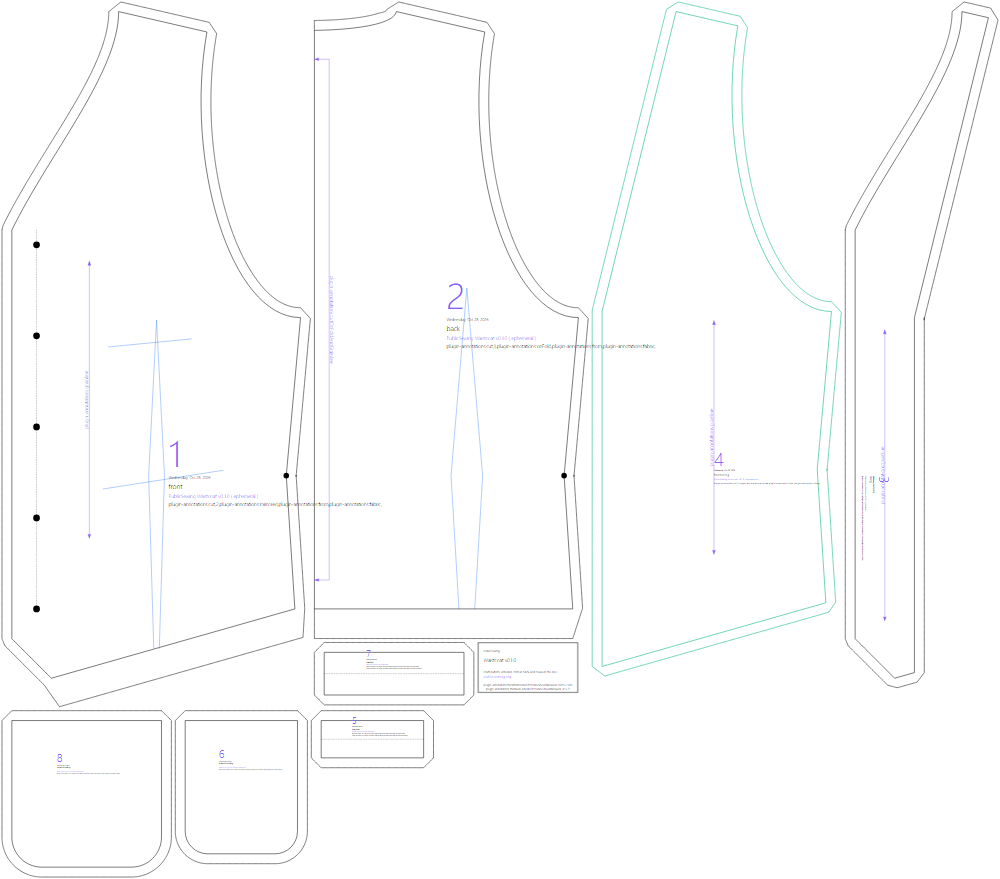
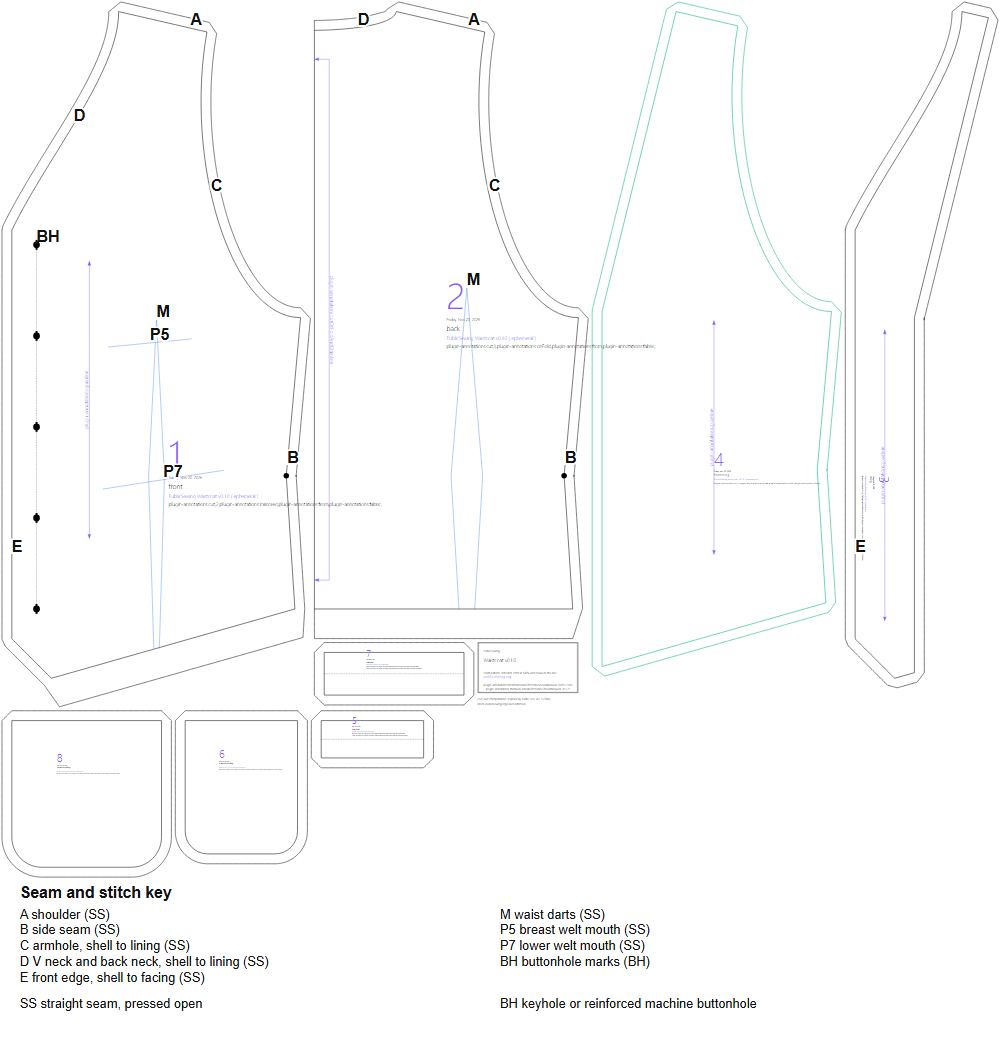
Map the waistcoat; add a dart code kind
Darts are labelled on their drafted dart lines (kind: dart, not checked
against the seam line). Buttonhole marks are now drafted. The double-breasted
waistcoat opts out of the inherited map until mapped.

diff --git a/designs/waistcoat/BRIEF.md b/designs/waistcoat/BRIEF.md
@@ -46,14 +46,15 @@ words; no text or figure is reproduced. Lengths below are the book's centimetres
 | Facing, lining | (not tabulated) | `facingWidth` 6% of chest, up the V to the shoulder; front lining; `liningBack` cuts the back twice from lining |
 
 ## Construction order
-1. Darts in the fronts and backs, sewn to the hem.
-2. Welt pockets in the fronts (welt, bags; the lower welt is sewn over the closed dart).
-3. Facings to the front linings; back to back lining at the shoulders.
-4. Fronts to the backs at the shoulders, linings likewise.
-5. Outer shell and lining right sides together round the front edges, V neck, back neck and the
-   armholes; turn through the side seams.
-6. Side seams, the shell's and the lining's, closing the last opening by hand.
-7. Buttonholes and buttons.
+Letters are the seam and placement codes on the pattern map; numbers are printed on the pieces. **SS** straight seam pressed open, **BH** keyhole or machine buttonhole.
+
+1. Sew the darts **M** in the fronts **1** and backs **2**, to the hem.
+2. Make the welt pockets in the fronts **1** at **P5** and **P7**: welts **5**, **7** and bags **6**, **8**; the lower welt is sewn over the closed dart.
+3. Sew the facings **3** to the front linings **4**; join the back **2** to the back lining at the shoulders.
+4. Join the fronts **1** to the backs **2** at the shoulders **A**, and the linings **4** likewise.
+5. Lay the outer shell and lining right sides together and sew round the front edges **E**, the V neck and back neck **D** and the armholes **C**, through fronts **1**, backs **2**, facings **3** and linings **4**; turn through the side seams.
+6. Sew the side seams **B** of the shell (fronts **1**, backs **2**) and the lining **4**, closing the last opening by hand.
+7. Work the buttonholes **BH** on the front **1** and sew on the buttons.
 
 ## Changes and what isn't modelled
 - **Geometry from Brian, not ЕМКО's tables**, so the waistcoat drafts at any size.

diff --git a/designs/SPEC.md b/designs/SPEC.md
@@ -146,7 +146,7 @@ patternMap:
     A:
       name: shoulder
       stitch: FF                          # a stitches code
-      kind: seam                          # seam (default), placement (pocket lines) or closure (buttonholes)
+      kind: seam                          # seam (default), dart, placement (pocket lines) or closure (buttonholes)
       drape: shoulder                     # optional: the seam's id in the design's drape config
       at:                                 # where the code is printed, one entry per piece
         - { part: front, path: frontArmhole, along: 0.5 }   # a fraction along a drafted path
